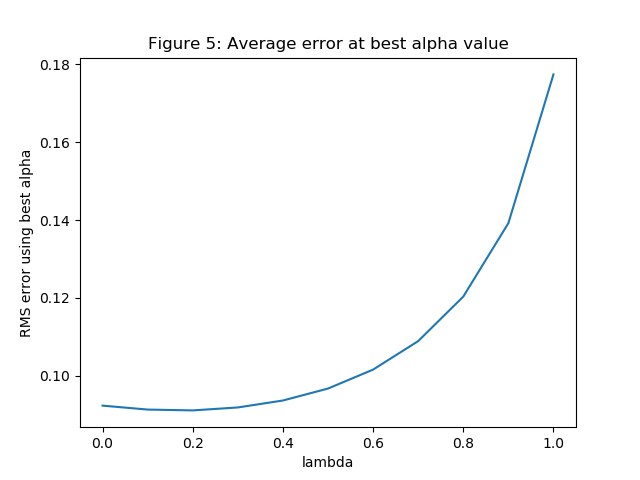
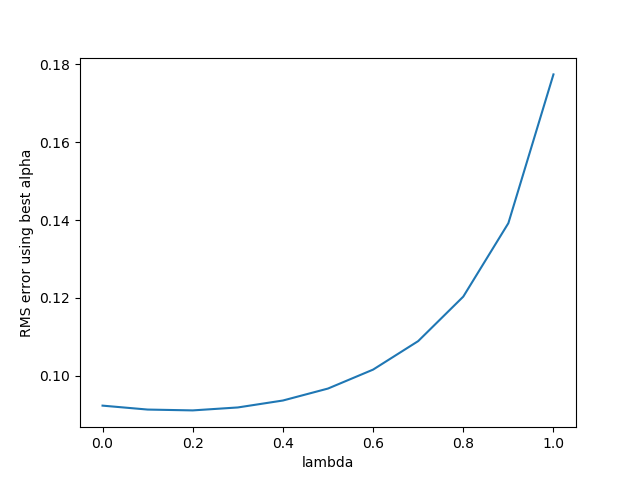
updated plots

Changed region(s): [[0.2188, 0.0625, 0.7812, 0.125]]

diff --git a/Project_1/p1.py b/Project_1/p1.py
@@ -127,7 +127,7 @@ def getFigure3(gt, data):
 		
 	plt.figure()
 	plt.plot(lambdas, errors)
-	plt.title('Figure 3: Average error under repeated presentations')
+	#plt.title('Figure 3: Average error under repeated presentations')
 	plt.xlabel('lambda')
 	plt.ylabel('RMS error')
 	plt.show()
@@ -151,7 +151,7 @@ def getFigure4(gt, data):
 	plt.legend(handles=handles)
 	axes = plt.gca()
 	axes.set_ylim([0, 0.8])
-	plt.title('Figure 4: Average error with varying alpha and lambda')
+	#plt.title('Figure 4: Average error with varying alpha and lambda')
 	plt.xlabel('alpha')
 	plt.ylabel('RMS error')
 	plt.show()
@@ -171,7 +171,7 @@ def getFigure5(gt, data):
 
 	plt.figure()
 	plt.plot(lambdas, errors)
-	plt.title('Figure 5: Average error at best alpha value')
+	#plt.title('Figure 5: Average error at best alpha value')
 	plt.xlabel('lambda')
 	plt.ylabel('RMS error using best alpha')
 	plt.show()
@@ -181,6 +181,6 @@ np.random.seed(1)
 gt = computeGT()
 data = generateTrainingSets(100, 10)
 
-# getFigure3(gt, data)
-# getFigure4(gt, data)
-# getFigure5(gt, data)
+getFigure3(gt, data)
+getFigure4(gt, data)
+getFigure5(gt, data)
